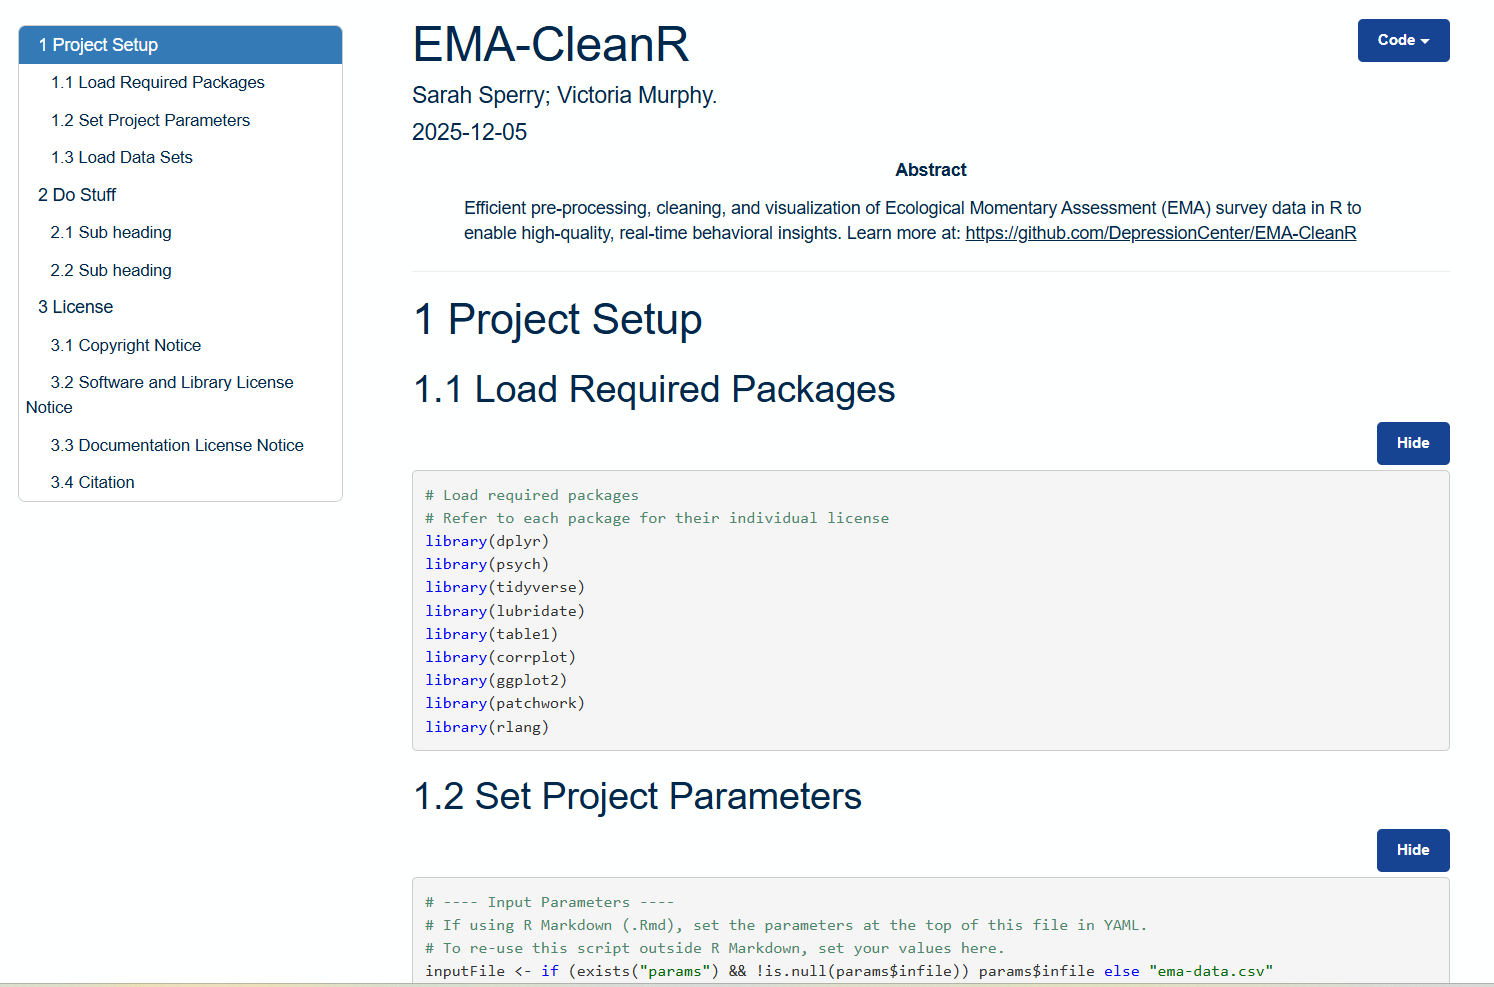
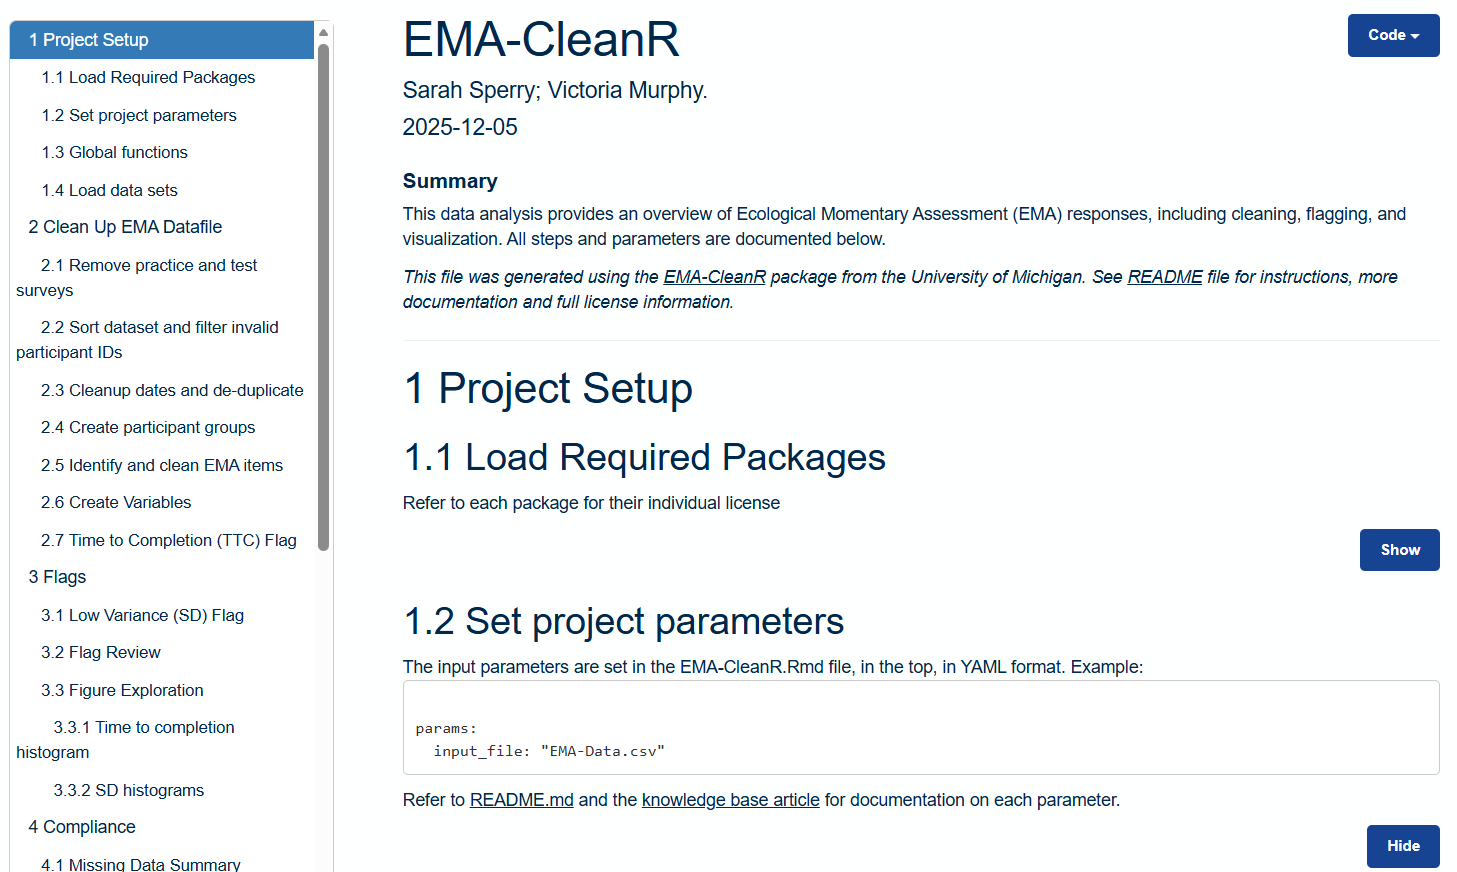
Updated README.md
Updated README file and screenshots.

diff --git a/README.md b/README.md
@@ -30,22 +30,28 @@ EMA-CleanR is a program for efficient pre-processing, cleaning, and visualizatio
   <img 
     src="images/EMA-CleanR-Screenshot1.png" 
     alt="Screenshot of EMA-CleanR output in HTML" 
-    style="max-width:840px; width:100%; display:block; margin:auto;" />
+    style="max-width:800px; width:100%; display:block; margin:auto;" />
+</a>
+
+<a href="https://depressioncenter.github.io/EMA-CleanR/EMA-CleanR.html" target="_blank" rel="noopener">
+  <img 
+    src="images/EMA-CleanR-Screenshot2.png" 
+    alt="Screenshot of EMA-CleanR visualizations" 
+    style="max-width:800px; width:100%; display:block; margin:auto;" />
 </a>
 
 
 ## Quick Start Guide
 + To view sample data and a code walk-through, simply visit: https://depressioncenter.github.io/EMA-CleanR/EMA-CleanR.html
-+ Download and extract this repository (or clone with it).
-+ Open **EMA-CleanR.html** to explore the code using sample data. This is the same output that can be found at: https://depressioncenter.github.io/EMA-CleanR/EMA-CleanR.html
-+ To load your own data:
-  + Replace **EMA-Data.csv** with your own file.
-    + Ensure it has at least these columns: participantidentifier,surveyname,start_datetime,end_datetime
-    + Each row represents one survey taken by one participant at one point in time.
-    + There should be one column per question, and the column headings should start with "EMA_" (e.g. EMA_01, EMA_02, etc.)
-  + Open **EMA-CleanR.Rmd** with R-Studio.
-  + Edit the parameters at the top if needed (e.g. input file name).
-  + Click the Knittr button to generate a new EMA-CleanR.html file with your own data.
++ To use with your own data, first download and extract this repository (or clone with it).
++ Replace **EMA-Data.csv** with your own file.
+  + Ensure it has at least these columns: participantidentifier,surveyname,start_datetime,end_datetime
+  + There should be one column per question, and the column headings should start with "EMA_" (e.g. EMA_01, EMA_02, etc.)
+  + Each row represents one survey taken by one participant at one point in time.
++ Open **EMA-CleanR.Rmd** with R-Studio. If asked, install any missing packages.
++ Edit the parameters at the top if needed (e.g. input file name), in the YAML section.
++ Click the "Knit" button (or Ctrl+Shift+K) to generate a new **EMA-CleanR.html** file. This will contain a walk-through analysis of your data and visualizations.
++ The output directory will contain exports of the data analysis in CSV format.
 
 
 
